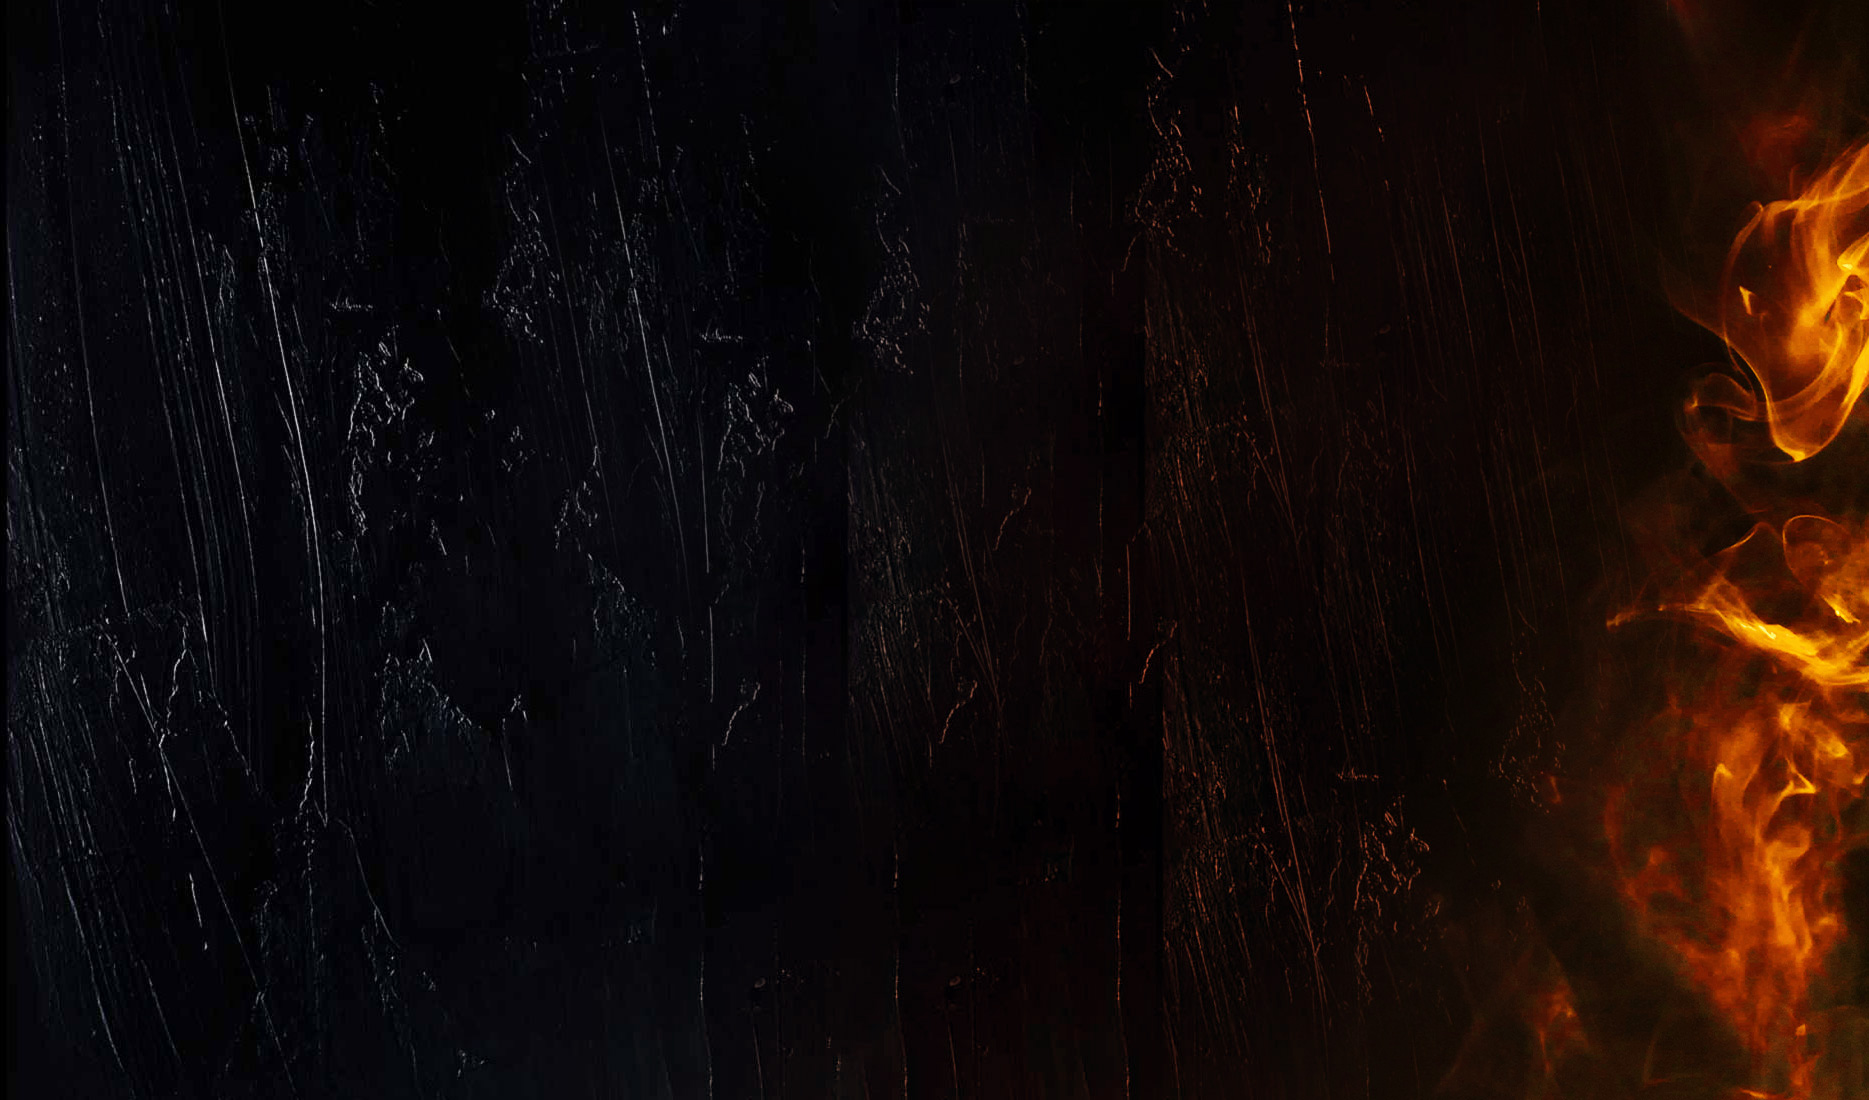
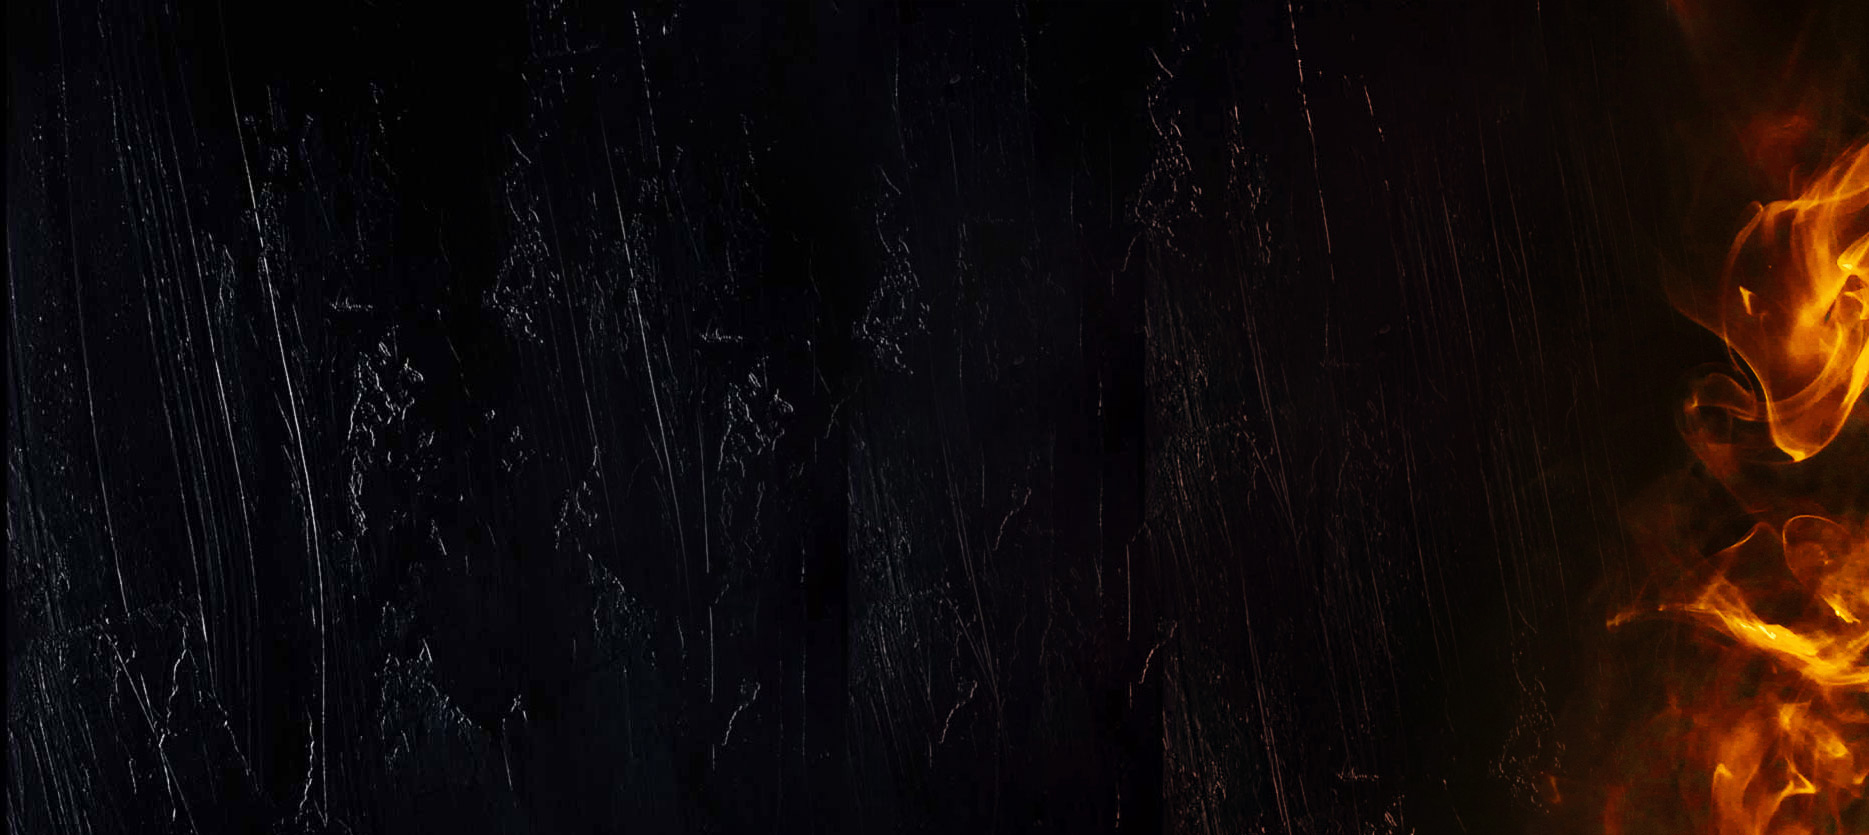
updated hp placeholder image

diff --git a/web/src/components/Hero.js b/web/src/components/Hero.js
@@ -8,7 +8,7 @@ import RusticWoodTexture from '../images/smooth-black-wood.jpg'
 import PaintedWoodTexture from '../images/h4-slide-3.jpg'
 import PaintedWoodTexture2 from '../images/h4-slide-33.jpg'
 import Firelight from '../images/firelight3.png'
-import PizzaPlaceholder from '../images/placeholder-pizza.png'
+import PizzaPlaceholder from '../images/Margareets2.png'
 
 // elements
 import Container from '../ui/Container'
@@ -19,14 +19,13 @@ import { StyledLink } from '../ui/Button'
 
 const SectionStyled = styled.section`
   background-image: url(${PaintedWoodTexture2});
-  background-position: 80% 0%;
   background-size: cover;
   ${tw`py-12 relative overflow-hidden`};
   @media (min-width: 600px) {
     background-position: 70% 0%;
   }
   @media (min-width: 900px) {
-    background-position: rop right;
+    background-position: top right;
   }
 `
 // const FireGradient = styled.div`
@@ -49,9 +48,9 @@ const RightCol = styled.div`
   padding-bottom: 200px;
   @media (min-width: 900px) {
     ${tw`py-2 px-2`};
+    min-height: 600px;
   }
   img {
-    max-height: 60vh;
     ${tw`absolute`};
     left: 1rem;
     @media (min-width: 600px) {
@@ -61,7 +60,7 @@ const RightCol = styled.div`
     }
     @media (min-width: 900px) {
       ${tw`static`};
-      width: 500px;
+      width: 800px;
       max-width: 100%;
     }
   }
@@ -88,7 +87,7 @@ const Hero = () => (
         {/* left col */}
         <LeftCol className="LeftCol">
           <Intro className="Intro">Pizza of the Day</Intro>
-          <BigTitle>Cinnamon Roll</BigTitle>
+          <BigTitle>Margareets</BigTitle>
           <Paragraph>
             <span>
               Back to the basics. <br />
